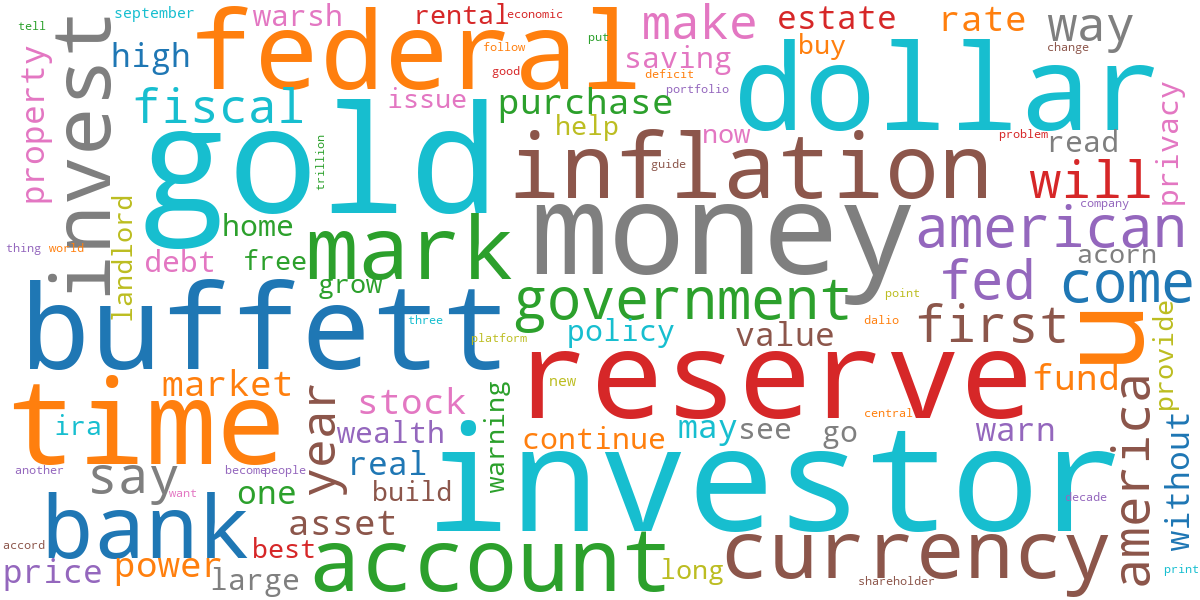
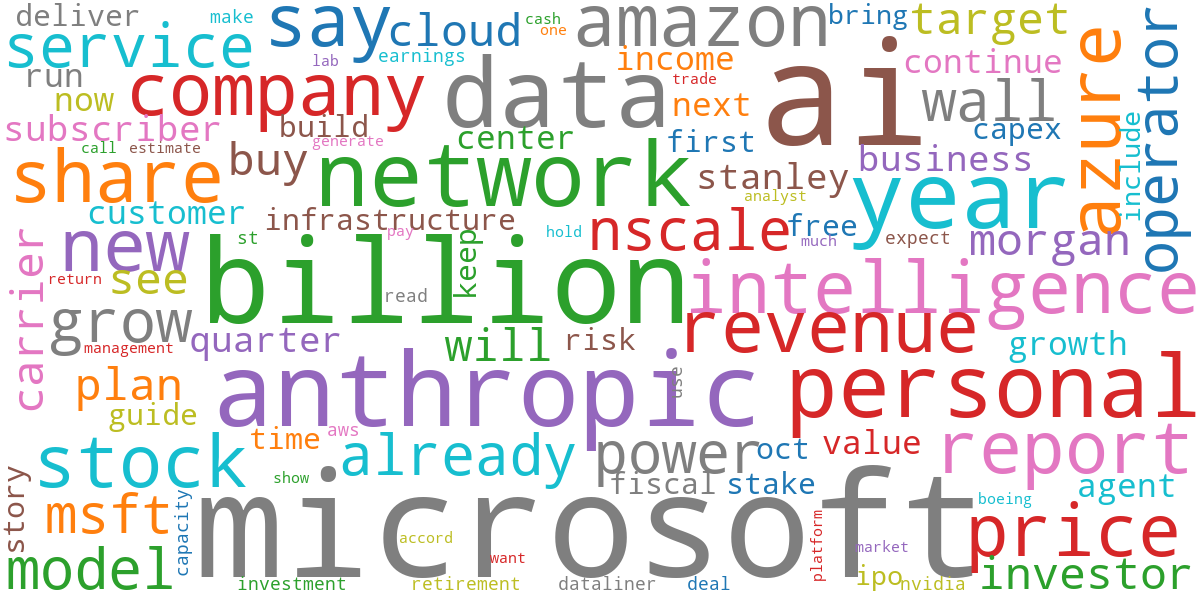
Integrated text analyzer into stock analysis

diff --git a/analyze.py b/analyze.py
@@ -72,13 +72,16 @@ def tokenizeWords(sentences):
         words.extend(word_tokenize(sentence))
     return words
 
+
 def extractKeySentences(sentences, searchPattern):
-     matchedSentences = []
-     for sentence in sentences:
-          #if sentence matches desired pattern, add to matchedSentences
-          if re.search(searchPattern, sentence.lower()):
-               matchedSentences.append(sentences)
-          return matchedSentences
+    matchedSentences = []
+
+    for sentence in sentences:
+        # If sentence matches desired pattern, add it to matchedSentences
+        if re.search(searchPattern, sentence.lower()):
+            matchedSentences.append(sentence)
+    return matchedSentences
+
 
 #Get the average words per sentence, excluding punctuation
 def getWordsPerSentence(sentences):
@@ -113,59 +116,59 @@ def cleanseWordList(posTaggedWordTuples):
             cleansedWords.append(wordLemmatizer.lemmatize(cleansedWord, treebankPosToWordnetPos(pos)))
     return cleansedWords
 
-# Get User Details
-welcomeUser()
-username = getUsername()
-greetUser(username)
 
-#Extracting and Tokenizing text
-articleTextRaw = getArticleText()
-articleSentences = tokenizeSentences(articleTextRaw)
-articleWords = tokenizeWords(articleSentences)
 
-#Get Analytics
-stockSearchPattern = "[0-9]|[%$€£]|thousand|million|billion|trillion|profit|loss"
-keySentences = extractKeySentences(articleSentences, stockSearchPattern)
-wordsPerSentence = getWordsPerSentence(articleSentences)
+def analyzeText(textToAnalyze):
+    articleSentences = tokenizeSentences(textToAnalyze)
+    articleWords = tokenizeWords(articleSentences)
 
-# Get Word Analytics
-wordsPosTagged = nltk.pos_tag(articleWords)
-articleWordsCleansed = cleanseWordList(wordsPosTagged)
+    #Get Analytics
+    stockSearchPattern = "[0-9]|[%$€£]|thousand|million|billion|trillion|profit|loss"
+    keySentences = extractKeySentences(articleSentences, stockSearchPattern)
+    wordsPerSentence = getWordsPerSentence(articleSentences)
 
-# Generate the word cloud
-separator = " "
-wordCloudFilePath = "result/wordcloud.png"
-wordcloud = WordCloud(
-background_color="white",
-colormap="tab10",
-max_words=100,
-max_font_size=50,
-scale=3,
-collocations=False
-).generate(separator.join(articleWordsCleansed))
+    # Get Word Analytics
+    wordsPosTagged = nltk.pos_tag(articleWords)
+    articleWordsCleansed = cleanseWordList(wordsPosTagged)
 
-wordcloud.to_file(wordCloudFilePath)
+    # Generate the word cloud
+    separator = " "
+    wordCloudFilePath = "result/wordcloud.png"
+    wordcloud = WordCloud(
+    background_color="white",
+    colormap="tab10",
+    max_words=100,
+    max_font_size=50,
+    scale=3,
+    collocations=False
+    ).generate(separator.join(articleWordsCleansed))
 
-#Run sentiment analysis
-sentimentResult = sentimentAnalyzer.polarity_scores(articleTextRaw)
+    wordcloud.to_file(wordCloudFilePath)
 
-# Collate analysis into one dictionary
-finalResult = {
-     "username": username,
-     "data": {
-          "keySentences": keySentences,
-          "wordsPerSentence": round(wordsPerSentence, 1),
-          "sentiment": sentimentResult,
-          "wordCloudFilePath": wordCloudFilePath
-     },
-     "metadata": {
-          "sentencesAnalyzed": len(articleSentences),
-          "wordAnalyzed": len(articleWordsCleansed)
-     }
-}
-finalResultJson = json.dumps(finalResult, indent=4)
+    #Run sentiment analysis
+    sentimentResult = sentimentAnalyzer.polarity_scores(textToAnalyze)
 
-#Print for testing
-print(finalResultJson)
+    # Collate analysis into one dictionary
+    finalResult = {
+        "data": {
+            "keySentences": keySentences,
+            "wordsPerSentence": round(wordsPerSentence, 1),
+            "sentiment": sentimentResult,
+            "wordCloudFilePath": wordCloudFilePath
+        },
+        "metadata": {
+            "sentencesAnalyzed": len(articleSentences),
+            "wordAnalyzed": len(articleWordsCleansed)
+        }
+    }
+    return finalResult
+
+def runAsFile():
+    # Get User Details
+    welcomeUser()
+    username = getUsername()
+    greetUser(username)
+    articleTextRaw = getArticleText()
+    analyzeText(articleTextRaw)
 
 

diff --git a/stockAnalyze.py b/stockAnalyze.py
@@ -1,5 +1,7 @@
 import yfinance as yf
 import requests
+import analyze
+import json
 from datetime import datetime
 from bs4 import BeautifulSoup
 
@@ -75,7 +77,10 @@ def getCompanyStockInfo(tickerSymbol):
     futureEarningsDates = getEarningsDates(company)
     newsArticles = getCompanyNews(company)
     newsArticlesAllText = extractCompanyNewsArticles(newsArticles)
-    print(newsArticlesAllText)
+    newsTextAnalysis = analyze.analyzeText(newsArticlesAllText)
+
+    finalResultJson = json.dumps(newsTextAnalysis, indent=4)
+    print(finalResultJson)
 
 getCompanyStockInfo("MSFT")
 
